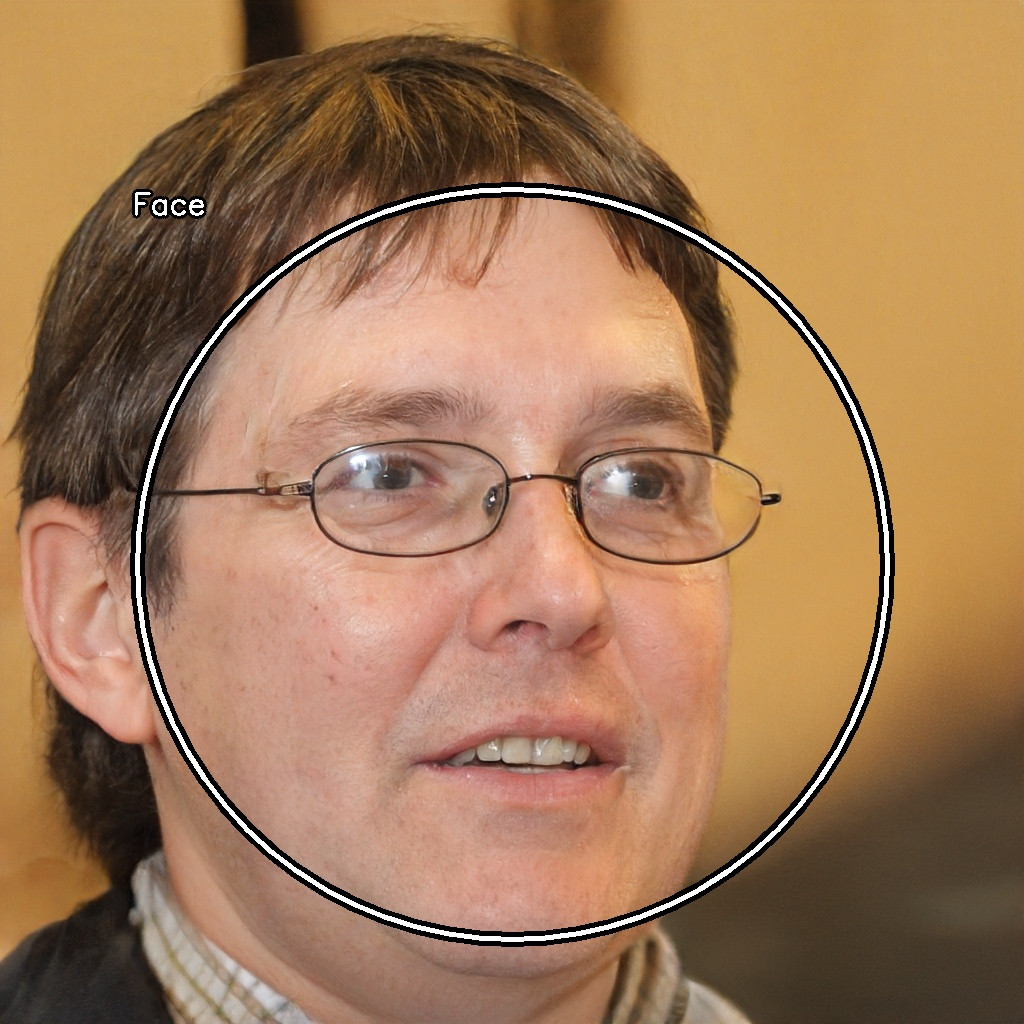
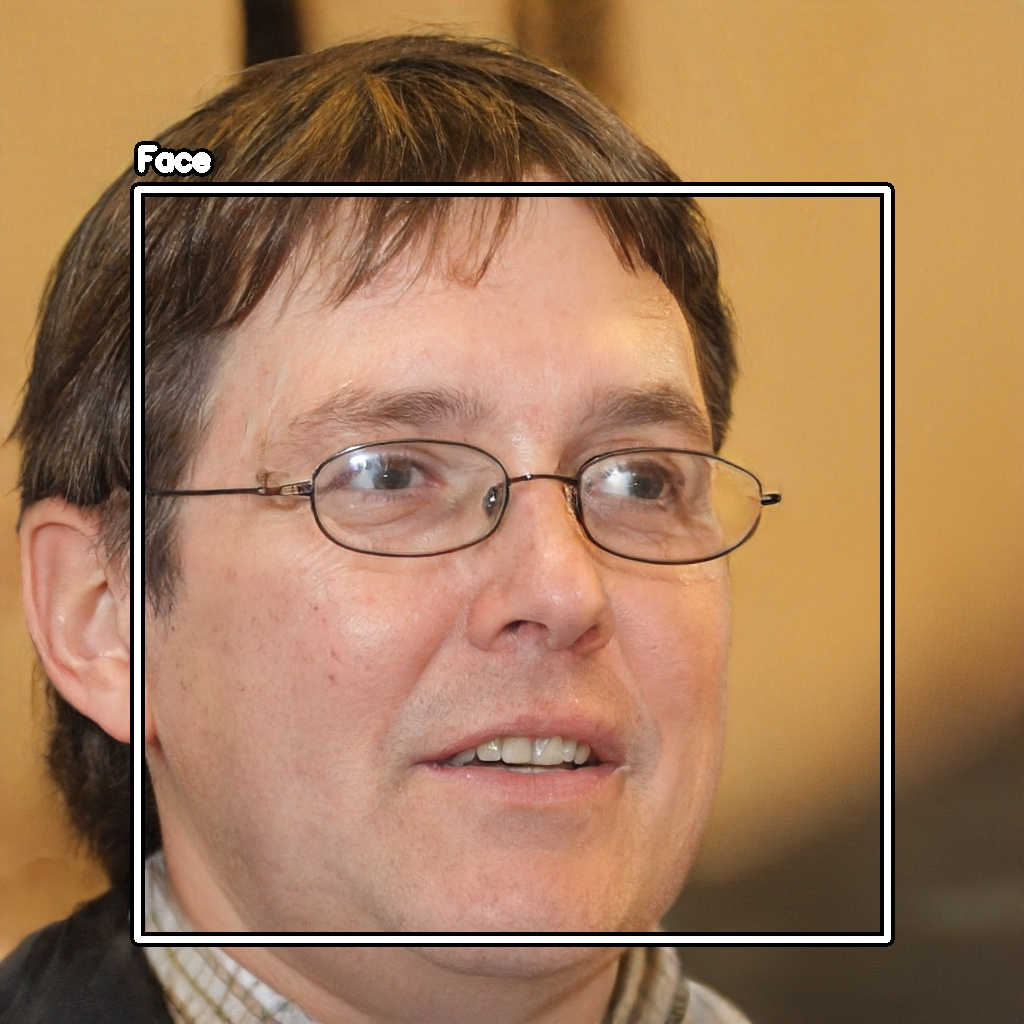
better shape draw

diff --git a/detector.py b/detector.py
@@ -1,9 +1,13 @@
 # Facial Detection using OpenCV and PySimpleGUI
 # By gingernikki
 
+## IMPORTS
+
 import PySimpleGUI as UI
 import cv2
 import os
+
+## GUI STUFF
 
 def selectfilewindow():
     UI.theme('SystemDefault');
@@ -16,7 +20,6 @@ def selectfilewindow():
         # "Recognize" button in white color
         [UI.Button('Recognize', key='recognize', button_color=('black', 'white'), size=25)],
     ]
-    
     while True:
         # Listen for events
         event, values = UI.Window(title='Facial Detection', layout=layout, finalize=True).read()
@@ -25,6 +28,16 @@ def selectfilewindow():
             # Return the filepath
             return values['filepath']
         break
+
+def draw(style, fcol, thick, img, w, h, y, x):
+    if style == 'rectangle':
+        cv2.rectangle(img, (x,y), (x+w,y+h), (fcol, fcol, fcol), thick)
+        cv2.putText(img, "Face", (x,y-20), cv2.FONT_HERSHEY_SIMPLEX, 1, (fcol, fcol, fcol), thick)
+    elif style == 'circle':
+        cv2.circle(img, (x+w//2, y+h//2), w//2, (fcol, fcol, fcol), thick)
+        cv2.putText(img, "Face", (x-5,y+25), cv2.FONT_HERSHEY_SIMPLEX, 1, (fcol, fcol, fcol), thick)
+
+## OPENCV STUFF
 
 # Detect faces using cv2 and draw a rectangle around them
 def detectfaces(filepath, drawtype):
@@ -35,19 +48,12 @@ def detectfaces(filepath, drawtype):
     face_cascade = cv2.CascadeClassifier(cv2.data.haarcascades + 'haarcascade_frontalface_default.xml')
     # Detect faces in the image
     faces = face_cascade.detectMultiScale(gray, 1.3, 5)
-    # Draw circle around the faces
     if drawtype == "circle":
         for (x,y,w,h) in faces:
-            cv2.circle(img, (x+w//2, y+h//2), w//2, (0,0,0), 14)
-            cv2.circle(img, (x+w//2, y+h//2), w//2, (255,255,255), 4)
-            cv2.putText(img, "Face", (x-5,y+25), cv2.FONT_HERSHEY_SIMPLEX, 1, (0,0,0), 8)
-            cv2.putText(img, "Face", (x-5,y+25), cv2.FONT_HERSHEY_SIMPLEX, 1, (255,255,255), 2)
+            draw('circle', 0, 14, img, w, h, y, x); draw('rectangle', 255, 6, img, w, h, y, x)
     elif drawtype == "rectangle":
         for (x,y,w,h) in faces:
-            cv2.rectangle(img, (x,y), (x+w,y+h), (0,0,0), 14)
-            cv2.rectangle(img, (x,y), (x+w,y+h), (255,255,255), 4)
-            cv2.putText(img, "Face", (x,y-20), cv2.FONT_HERSHEY_SIMPLEX, 1, (0,0,0), 8)
-            cv2.putText(img, "Face", (x,y-20), cv2.FONT_HERSHEY_SIMPLEX, 1, (255,255,255), 2)
+            draw('rectangle', 0, 14, img, w, h, y, x); draw('rectangle', 255, 6, img, w, h, y, x)
 
     # Return the image
     if len(faces) == 0:
@@ -64,6 +70,8 @@ def showimage(img):
     cv2.waitKey(0)
     # Destroy the window
     cv2.destroyAllWindows()
+
+## RUN MODES
 
 def manual(drawtype):
     # Get file manually

diff --git a/run_auto.py b/run_auto.py
@@ -2,4 +2,4 @@
 # AND MAKE OUTPUT FILES INSIDE THE OUTPUT FOLDER.
 
 import detector
-detector.auto('circle'); # Alternatively, you can use 'rectangle' to draw rectangles around the faces.
+detector.auto('rectangle'); # Alternatively, you can use 'rectangle' to draw rectangles around the faces.
